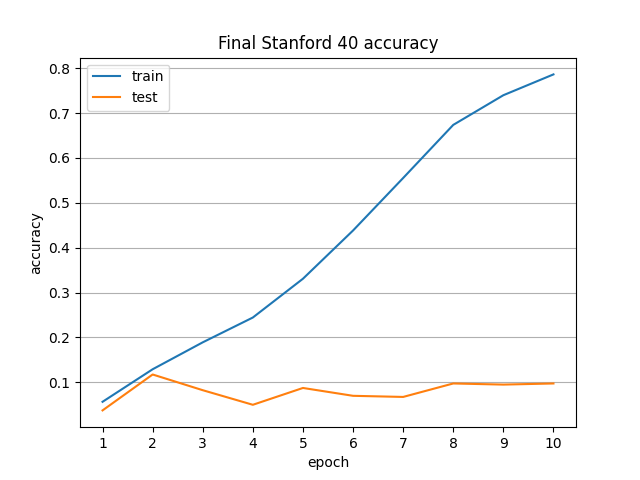
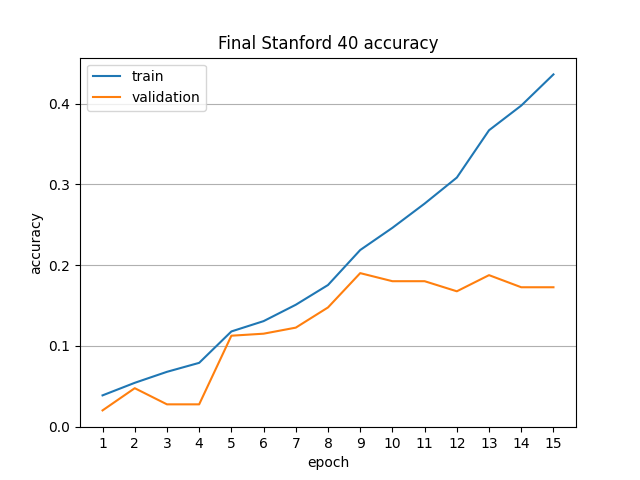
feat(stanford40): reach 20%

diff --git a/P5/models/stanford40_model.py b/P5/models/stanford40_model.py
@@ -7,6 +7,7 @@ def get_model():
         # TODO: do a simple normalisation for each image
 
         layers.InputLayer(input_shape=(224, 224, 3)),
+        tf.keras.layers.Rescaling(1./255),
         
         # Conv1
         layers.Conv2D(filters=96, kernel_size=7, strides=2, padding="same", activation='relu'),
@@ -14,17 +15,22 @@ def get_model():
         layers.MaxPool2D(pool_size=(3, 3), strides=2, padding="same"),
 
         # Conv2
-        layers.Conv2D(filters=256, kernel_size=5, strides=2, padding="same", activation='relu'),
+        layers.Conv2D(filters=256, kernel_size=5, strides=3, padding="same", activation='relu'),
         layers.BatchNormalization(),
         layers.MaxPool2D(pool_size=(3, 3), strides=2, padding="same"),
 
         # Conv3
-        layers.Conv2D(filters=512, kernel_size=3, strides=1, padding="same", activation='relu'),
+        layers.Conv2D(filters=512, kernel_size=3, strides=3, padding="same", activation='relu'),
+        layers.BatchNormalization(),
+        layers.MaxPool2D(pool_size=(3, 3), strides=2, padding="same"),
+
         # Conv4
-        layers.Conv2D(filters=512, kernel_size=3, strides=1, padding="same", activation='relu'),
+        layers.Conv2D(filters=512, kernel_size=3, strides=3, padding="same", activation='relu'),
+        layers.BatchNormalization(),
+        layers.MaxPool2D(pool_size=(3, 3), strides=2, padding="same"),
 
         # Conv5
-        layers.Conv2D(filters=512, kernel_size=3, strides=1, padding="same", activation='relu'),
+        layers.Conv2D(filters=512, kernel_size=3, strides=3, padding="same", activation='relu'),
         layers.MaxPool2D(pool_size=(3, 3), strides=2, padding="same"),
         layers.Flatten(),
 
@@ -34,7 +40,8 @@ def get_model():
         # layers.Dropout(rate=0.5),
 
         # Full7
-        layers.Dense(160),
+
+        layers.Dense(80),
         layers.Dropout(rate=0.5),
 
         # Output
@@ -43,7 +50,7 @@ def get_model():
     ]
 
     model = Sequential(model_layers)
-    opt = keras.optimizers.Adam(learning_rate=0.0005)
+    opt = keras.optimizers.Adam(learning_rate=0.001)
     model.compile(optimizer=opt,
             loss=keras.losses.SparseCategoricalCrossentropy(from_logits=True),
             metrics=['accuracy'])

diff --git a/P5/learning_rate_scheduler.py b/P5/learning_rate_scheduler.py
@@ -1,5 +1,5 @@
 def halving_scheduler(epoch, lr):
-  if epoch % 5 == 0 and epoch != 0:
+  if epoch % 4 == 0 and epoch != 0:
     print(f"We've halved the lr to be {0.5 * lr}")
     return 0.5 * lr
   else:
